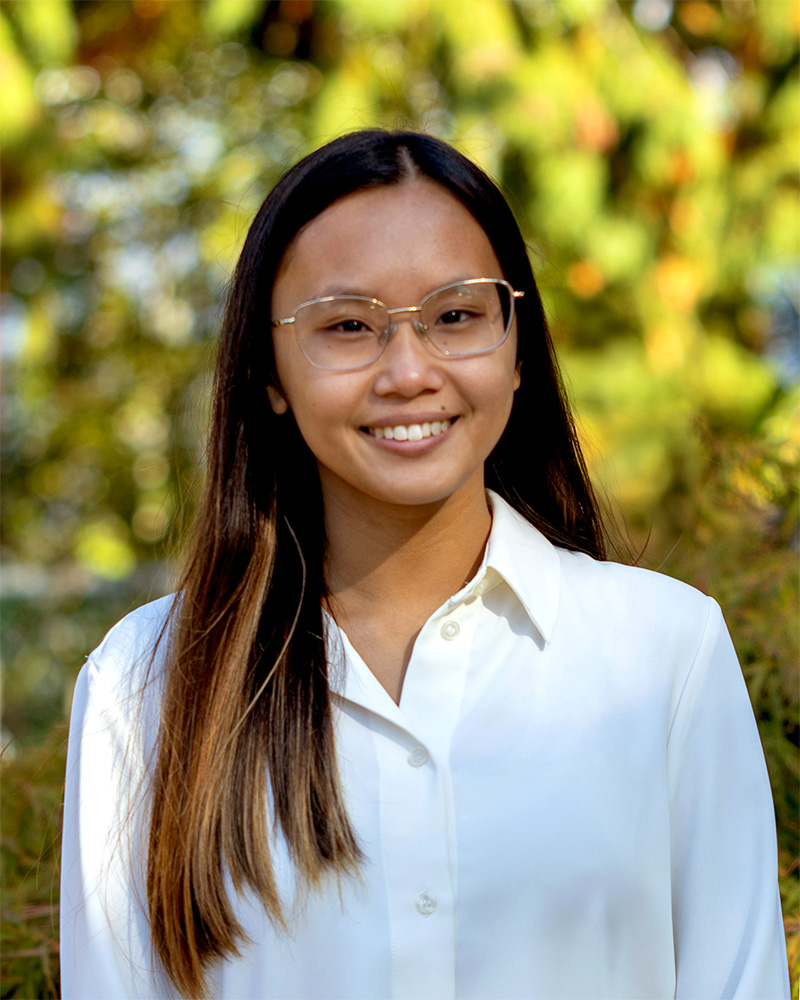
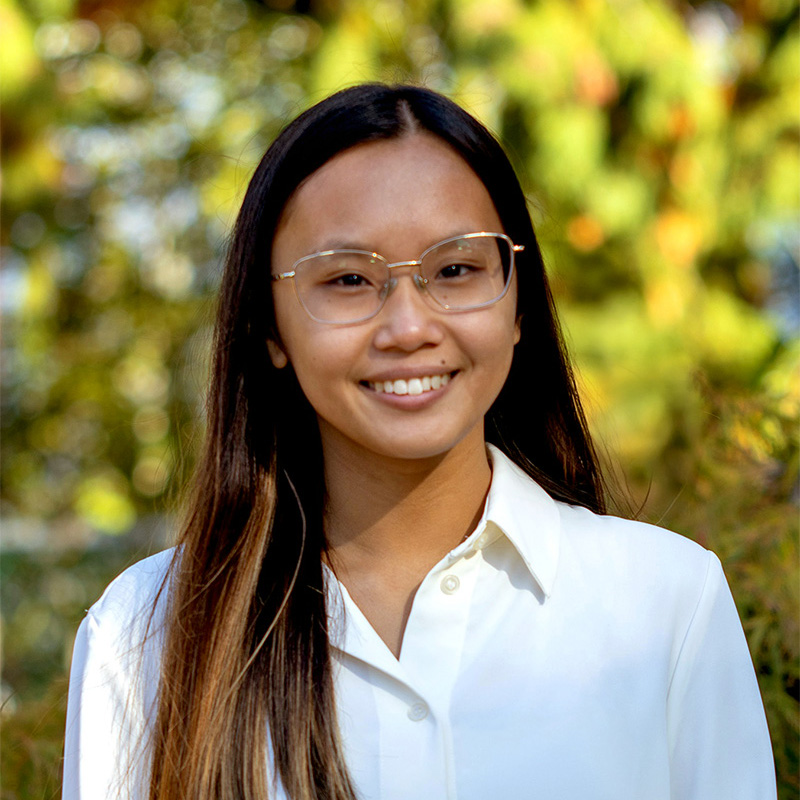
added contact info and made other layout adjustments

diff --git a/about.html b/about.html
@@ -18,18 +18,18 @@
     </nav>
 
     <main>
-      <h1>About</h1>
+      <h1>About Me</h1>
 
       <section id="bio">
         <div class="grid two-column add-gutters">
 				
-          <img src="img/portrait-400w.jpg" alt="Portrait of Amanda with long black hair, gold glasses, and a white collared shirt" width="400" height="500">
+          <img src="img/portrait-800w.jpg" alt="Portrait of Amanda with long black hair, gold glasses, and a white collared shirt" width="800" height="800">
         
           <div class="column">
             <h2>Hi, I’m Amanda!</h2>
             <p>
               I’m an undergraduate design student at SFU’s School of
-              Interactive Arts &amp; Technology. I’m currently completing my first
+              Interactive Arts &amp; Technology. I recently completed a 12-month 
               co-op as a Digital Communications Assistant at the Department of
               Fisheries and Oceans.
             </p>
@@ -39,55 +39,23 @@
               these industries, and improve my design practice by applying knowledge
               of how our brains learn and process information.
             </p>
-            <p>
-              My experiences are a mix of design, illustration, communications,
-              event planning, mentorship, and customer service — and I’m always
-              willing to dive into something new! Otherwise you might find me trying
-              new cafes, taking sky pictures, or teaching myself the ukulele.
-            </p>
           </div>
         </div>
       </section>
 
-      <!-- <section class="bio grid two-column add-gutters">
-        <img
-          src="img/portrait-400w.jpg"
-          alt=""
-          srcset="
-            img/portrait-400w.jpg   400w,
-            img/portrait-800w.jpg   800w,
-            img/portrait-1200w.jpg 1200w
-          "
-          sizes="
-						(min-width: 40rem) 30vw,
-						80vw
-					"
-        />
-        <div class="bio-text">
-          <h2>Hi, I’m Amanda!</h2>
+      <section id="why-hire-me">
+        <div class="callout">
+          <h2>Quick! Why should you hire me?</h2>
           <p>
-            I’m an undergraduate design student at SFU’s School of
-            Interactive Arts &amp; Technology. I’m currently completing my first
-            co-op as a Digital Communications Assistant at the Department of
-            Fisheries and Oceans.
+            My range of creative skills and experiences will easily transfer to any team. You can throw any type of task at me, and feel confident that I’ll get it done to a high standard.
           </p>
-          <p>
-            My focus is in graphic and UX/UI design, but I’m also interested in
-            psychology and education. I’d love to explore the intersection of
-            these industries, and improve my design practice by applying knowledge
-            of how our brains learn and process information.
-          </p>
-          <p>
-            My experiences are a mix of design, illustration, communications,
-            event planning, mentorship, and customer service — and I’m always
-            willing to dive into something new! Otherwise you might find me trying
-            new cafes, taking sky pictures, or teaching myself the ukulele.
-          </p>
-        </div> -->
+        </div>
       </section>
 
-      <section class="contact">
-        <h2>Contact Me</h2>
+      <section id="contact">
+        <h2>Contact</h2>
+        <p>Email: <a href="mailto:amandajeng19@gmail.com">amandajeng19@gmail.com</a></p>
+        <p>LinkedIn: <a href="https://www.linkedin.com/in/amandajeng19/">www.linkedin.com/in/amandajeng19/</a></p>
       </section>
     </main>
 

diff --git a/css/main.css b/css/main.css
@@ -27,7 +27,7 @@
 
   --light-teal: #82D7BE;
   --light-blue: #7AC4E7;
-  --light-purple: #9293DF;
+  --light-purple: #d9d9fa;
 
   --coral: #F58860; /* Focus colour — inspired by Bristol City Council: http://style.bristol.gov.uk/patterns/colours/ */
 }
@@ -53,17 +53,17 @@ main {
 }
 @media (min-width: 60rem) {
   main {
-    margin: 3rem 8rem;
+    margin: 3rem 14rem;
   }
 }
 @media (min-width: 90rem) {
   main {
-    margin: 3rem 12rem;
+    margin: 3rem 20rem;
   }
 }
 @media (min-width: 120rem) {
   main {
-    margin: 3rem 16rem;
+    margin: 3rem 28rem;
   }
 }
 
@@ -73,7 +73,7 @@ img {
 }
 
 section {
-  margin: 0 auto;
+  margin: 2rem auto;
 }
 
 /* DEFAULT TEXT STYLING ---------------------------------------------------------------------------------------------------- */
@@ -87,12 +87,12 @@ h1 {
   padding-top: 2.5rem;
 }
 h2 {
-  font-size: 2.25rem;
-  padding-top: 1rem;
+  font-size: 2rem;
+  padding-top: 0.75rem;
 }
 h3 {
-  font-size: 1.75rem;
-  padding-top: 0.5rem;
+  font-size: 1.5rem;
+  padding-top: 0.25rem;
 }
 h4 {
   font-size: 1.25rem;
@@ -164,8 +164,28 @@ a:focus {
 /* ABOUT PAGE ---------------------------------------------------------------------------------------------------- */
 
 #bio img {
-  border: 8px solid var(--purple);
+  border: 4px solid var(--purple);
   border-radius: 2rem;
+  justify-self: center;
+}
+
+.callout {
+  padding: 2rem;
+
+  background-color: var(--light-purple);
+  
+  border: 4px solid var(--purple);
+  border-radius: 2rem;
+}
+
+.callout h2, .callout h3 {
+  font-size: 1.5rem;
+  text-align: center;
+  margin-top: 0;
+  padding-top: 0;
+}
+.callout p {
+  margin: 0 auto;
 }
 
 /* FOOTER ---------------------------------------------------------------------------------------------------- */

diff --git a/css/grid.css b/css/grid.css
@@ -10,11 +10,11 @@
 }
 
 .grid.add-gutters {
-	grid-column-gap: 1rem;
+	grid-column-gap: 2rem;
 	grid-row-gap: 1rem;
 }
 
-@media (min-width: 60rem) {
+@media (min-width: 50rem) {
 	.grid.two-column {
 		grid-template-columns: 1fr 1fr;
 		grid-template-rows: auto;
